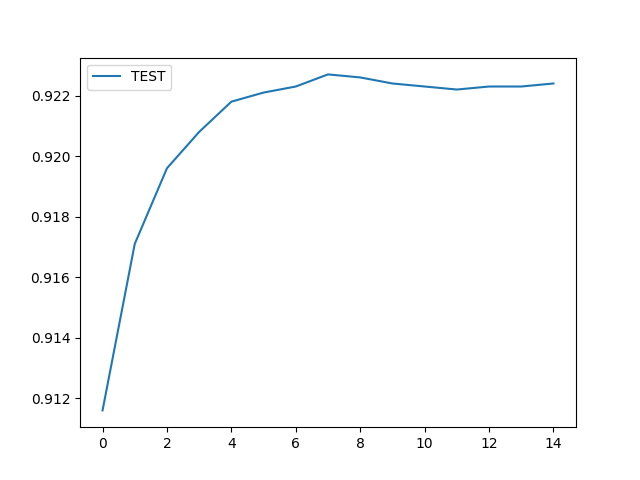
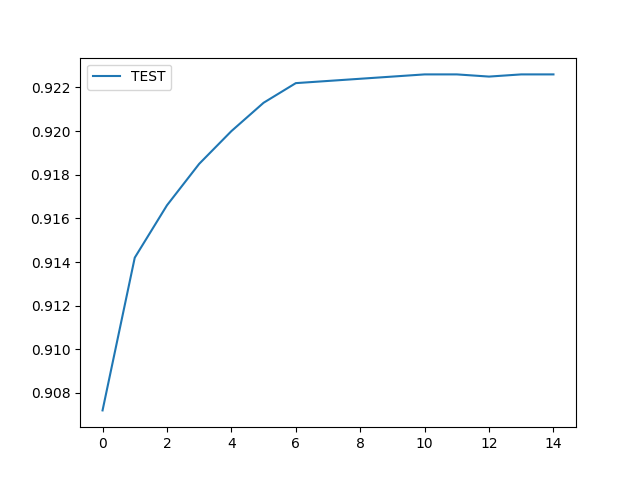
modified mnist

diff --git a/mnist_convnet.py b/mnist_convnet.py
@@ -77,7 +77,7 @@ if __name__ == '__main__':
     test_loader = torch.utils.data.DataLoader(dataset2, batch_size=64)
 
     model = CNN().to(device)
-    optimizer = optim.Adadelta(model.parameters(), lr=1.0)
+    optimizer = optim.Adam(model.parameters(), lr=0.001)
 
     loss_list = list()
     accuracy_list = list()
